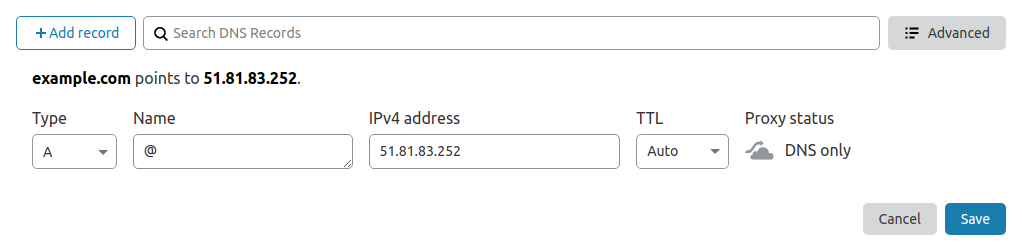
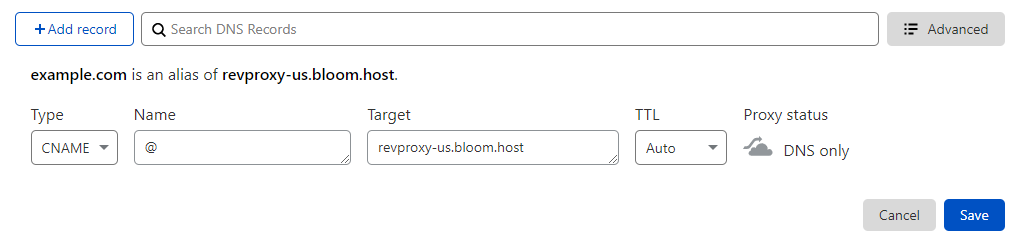
Rewrite Reverse Proxy documentation.

diff --git a/docs/using_the_panel/ports-and-proxies.md b/docs/using_the_panel/ports-and-proxies.md
@@ -20,31 +20,28 @@ image: https://bloom.host/assets/images/logo.png
 Reverse proxies can only be used for web connections (eg. HTTPS). If you want to join your minecraft server using your domain, check [this page](../running_a_server/domain.md)
 :::
 :::note
-For this guide, you must have access to a domain and the ability to alter that domain's DNS settings. For this guide, we assume you have a domain with Cloudflare, but most registrars will work.
-:::
-:::note
-In most cases, you should use a CNAME (Canonical Name) record to connect your subdomain to the reverse proxy. However, if you need to use a root domain, you will need to use an A record. Root domains are the base of a domain, like **example.com**, as opposed to a subdomain, **subdomain.example.com**
+For this guide, you must have access to a domain and the ability to alter that domain's DNS settings. In this guide, we assume you have a domain with Cloudflare, but most registrars will work.
 :::
 
 ---
 
-#### This section is for subdomains, where you should use CNAME records:
+#### This section is for domains, where you should use CNAME records:
 
-First, you will want to head over to your domain's DNS settings panel. In this demo, we will be using Cloudflare, and as an example domain, we will use **subdomain.example.com**.
+First, you will want to head over to your domain's DNS settings panel. In this demo, we will be using Cloudflare, and as an example domain, we will use **example.com**.
 
 ![portsandproxies](../../static/imgs/using_the_panel/ports_and_proxies/1.png)
 
-The DNS record usually used for a reverse proxy is a CNAME (canonical name). You will want to create an identical CNAME record as the one pictured above, but you will replace the 'Name' field with the subdomain of your choice.
+The DNS record usually used for a reverse proxy is a CNAME (canonical name). You will want to create an identical CNAME record as the one pictured above, but you will replace the ''**Target**' field with the revproxy address corresponding to your location. For US servers it is: **revproxy-us.bloom.host** and for EU servers it is **revproxy-eu.bloom.host**
 
 ---
 
-#### This section is for root domains, where you should use A records:
+#### This section is for  subdomains, where you should use CNAME records:
 
-Go to your domain's DNS settings. We will use Cloudflare for this demo and **example.com** as an example domain.
+Go to your domain's DNS settings. We will use Cloudflare for this demo and **subdomain.example.com** as an example domain.
 
 ![portsandproxies](../../static/imgs/using_the_panel/ports_and_proxies/2.png)
 
-In this case, create a new A record, identical to the one above. Different DNS providers may use different methods to reference the root of a domain. In most cases, you should put an `@` inside the Name box
+In this case, create a new CNAME record, identical to the one above. Different DNS providers may use different methods to reference the root of a domain. In most cases, you should put an `@` inside the Name box. In '**Target**' you will write the revproxy address corresponding to your location. For US servers it is: **revproxy-us.bloom.host** and for EU servers it is **revproxy-eu.bloom.host**
 
 ---
 :::note
@@ -58,18 +55,12 @@ If you do use Cloudflare for DNS, make sure to set the 'Proxy status' as **DNS o
 
 ---
 
-
 Once you've created your CNAME record, go to your [game panel](https://mc.bloom.host/) and on the left sidebar, select 'Ports & Proxies'.
-
 
 ![portsandproxies](../../static/imgs/using_the_panel/ports_and_proxies/3.png)
 
-More than likely, you will have one allocation, but to create a reverse proxy, you will need to create a new allocation, to do so, just click 'Create Allocation'.
+More than likely, you will have one allocation, but to create a reverse proxy, you will need to create a new allocation, to do so, just click '**Create Allocation**'. A popup will appear asking you to write the port you want to use for your new allocation, you can use any port in the **8100-25600** range.
 
-![portsandproxies](../../static/imgs/using_the_panel/ports_and_proxies/4.png)
-
-Once your new allocation has been created, it will be assigned a random port, if you need a specific port, open a support ticket in the [Bloom.host Discord](https://discord.com/invite/bloom).
-
-With this new allocation, you will want to input the domain or subdomain that you entered into your CNAME/A record, for this demo, we will input **subdomain.example.com**.
+After creating the allocation and the DNS record, write the subdomain or domain you want to use for the reverse proxy in the "**Reverse Proxy Domain**" field in the **Ports & Proxies** section of our panel.
 
 ---
